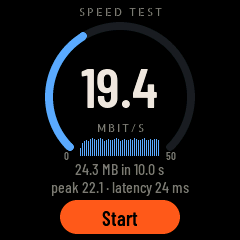
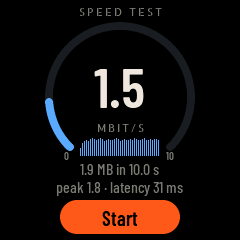
Toolbox: Wi-Fi power save off while a tool runs; speed dial to 10 Mbit/s
Measured on the watch: modem sleep pushed the average ping from ~10 to ~50 ms and held
the speed test at 0.5 Mbit/s. With power save off during a tool, ping reads true and the
download reaches 1.2–2 Mbit/s — the ceiling of Arduino-ESP32's fixed 5.7 KB lwIP TCP
window. The dial now reads up to 10 Mbit/s and the simulator's demo data matches what the
watch measures. DECISIONS D52 / D56 record the on-watch checks (ping, ARP sweep, BLE
scan, speed test, 32 % internal RAM free).

Claude-Session: https://claude.ai/code/session_01BHBYox5ENEx9Hdd9LiBx8a

diff --git a/src/hal/sim/hal_sim_net.c b/src/hal/sim/hal_sim_net.c
@@ -198,15 +198,16 @@ static void demo(kg_tool_t tool, const char *target)
         static const float S[] = {9.1f, 15.2f, 17.8f, 19.4f, 18.2f, 20.6f, 21.9f, 19.7f, 18.9f, 20.3f, 22.1f, 19.8f, 17.4f,
                                   18.8f, 20.1f, 19.2f, 18.6f, 19.9f, 21.2f, 20.4f, 18.3f, 19.5f, 20.8f, 19.1f, 18.7f, 20.2f,
                                   19.6f, 21.4f, 20.0f, 19.3f, 18.5f, 19.7f, 20.9f, 19.4f, 18.8f, 20.5f, 19.0f, 19.8f, 20.3f, 19.6f};
-        for (int i = 0; i < KG_SPEED_HIST; i++) {
-            s_st.speed_hist[s_st.speed_n++] = S[i];
-            if (S[i] > s_st.peak_mbps) s_st.peak_mbps = S[i];
+        for (int i = 0; i < KG_SPEED_HIST; i++) { /* scaled to what the watch measures (D52) */
+            float v = S[i] * 0.08f;
+            s_st.speed_hist[s_st.speed_n++] = v;
+            if (v > s_st.peak_mbps) s_st.peak_mbps = v;
         }
-        s_st.mbps = 19.4f;
-        s_st.bytes = 24250000;
+        s_st.mbps = 1.55f;
+        s_st.bytes = 1940000;
         s_st.elapsed_ms = 10000;
-        s_st.ttfb_ms = 24;
-        snprintf(s_st.status, sizeof s_st.status, "24.3 MB in 10.0 s");
+        s_st.ttfb_ms = 31;
+        snprintf(s_st.status, sizeof s_st.status, "1.9 MB in 10.0 s");
         break;
     }
     case KG_TOOL_PUBLIC:

diff --git a/src/ui/net_screens.c b/src/ui/net_screens.c
@@ -398,7 +398,7 @@ const net_tool_t NET_PING = {"Ping", "Latency and packet loss", ping_create, pin
 
 /* ============================================================ speed test */
 
-#define SPEED_FULL 50.0f /* Mbit/s at the end of the dial */
+#define SPEED_FULL 10.0f /* Mbit/s at the end of the dial: the watch tops out around 2 (D52) */
 
 static lv_obj_t *s_arc, *s_big, *s_info, *s_graph, *s_run2;
 
@@ -474,7 +474,7 @@ static lv_obj_t *speed_create(void)
     lv_obj_align(unit, LV_ALIGN_TOP_MID, 0, 122);
     lv_obj_t *z = kit_label(scr, &kg_font_digits_11, KG_C_TEXT_DIM, "0");
     lv_obj_set_pos(z, 64, 152);
-    lv_obj_t *f = kit_label(scr, &kg_font_digits_11, KG_C_TEXT_DIM, "50");
+    lv_obj_t *f = kit_label(scr, &kg_font_digits_11, KG_C_TEXT_DIM, "10");
     lv_obj_set_pos(f, 166, 152);
     s_graph = lv_obj_create(scr);
     lv_obj_remove_style_all(s_graph);

diff --git a/src/hal/device/nettools.cpp b/src/hal/device/nettools.cpp
@@ -156,6 +156,10 @@ static void tool_task(void *)
         char target[48];
         memcpy(target, s_req_target, sizeof target);
         unlock();
+        /* Wi-Fi power save off while a tool runs: modem sleep adds tens of ms to every round
+         * trip, which skews ping and, with lwIP's fixed 5.7 KB TCP window, caps the speed test
+         * below 1 Mbit/s. Back on as soon as the tool returns. */
+        WiFi.setSleep(false);
         if (tool == KG_TOOL_LAN) lan_scan();
         else if (tool == KG_TOOL_BLE) {
             lock();
@@ -164,6 +168,7 @@ static void tool_task(void *)
             ble_tool_scan(s_st, &ENV);
         } else kg_tool_run(tool, target, s_st, &ENV);
         kg_tool_end(s_st, &ENV);
+        WiFi.setSleep(true);
     }
     vTaskDelete(nullptr);
 }

diff --git a/DECISIONS.md b/DECISIONS.md
@@ -125,7 +125,7 @@ Each entry: decision — rationale. Most recent at the bottom.
 
 **D51. Toolbox techniques.** Ping and traceroute send ICMP echo requests with a chosen TTL on a raw lwIP socket (raw sockets also receive the routers' "time exceeded"); on macOS and Linux an unprivileged ICMP datagram socket does the same without root. The LAN scan is an ARP sweep of the /24 around the watch, in batches of 8 (lwIP keeps about ten ARP entries), run inside the lwIP thread through `tcpip_api_call()` since lwIP is not thread-safe here; locally administered MACs (phones' private addresses) are dimmed. The Bluetooth scan is a 5 s active NimBLE scan next to the iPhone link, only while Bluetooth is on (starting the stack for a scan would tie the light-sleep rules of D41 to the toolbox); the observer role is compiled back in for it. Tool state (2.6 KB, three copies) lives in PSRAM.
 
-**D52. Speed test and public IP over plain HTTP.** The speed test downloads up to 50 MB from `speed.cloudflare.com` for at most 10 s; the public IP, provider and network come from `ip-api.com`. Neither involves credentials, and TLS would cost RAM and cap the ESP32's throughput. ip-api.com only sees the address it reports, and only when the Link screen is opened.
+**D52. Speed test and public IP over plain HTTP.** The speed test downloads up to 50 MB from `speed.cloudflare.com` for at most 10 s; the public IP, provider and network come from `ip-api.com`. Neither involves credentials, and TLS would cost RAM and cap the ESP32's throughput. ip-api.com only sees the address it reports, and only when the Link screen is opened. **Measured on the watch:** about 1.2–2 Mbit/s. The ceiling is Arduino-ESP32's fixed lwIP TCP window (5.7 KB, compiled into the framework): throughput ≈ window ÷ round trip. Wi-Fi power save is turned off while a tool runs — modem sleep had pushed the average ping from ~10 to ~50 ms and the speed test down to 0.5 Mbit/s — and back on as soon as it returns. The dial reads up to 10 Mbit/s.
 
 **D53. LVGL pool: 64 → 384 KB, still in PSRAM** (D40). Apps stay created once opened, and thirteen apps with the toolbox's screens exhausted 64 KB (seen in the simulator as a failed object allocation). Internal RAM is unaffected.
 
@@ -133,4 +133,4 @@ Each entry: decision — rationale. Most recent at the bottom.
 
 **D55. Offline astronomy and time zones.** The world clock evaluates POSIX TZ rules itself (`kg_tz.c`) instead of switching libc's TZ, which would disturb the watch's own local time; it matches the C library on twelve zones every 37 minutes over two years. Sunrise, sunset and civil twilight use NOAA's sunrise equation (±1–2 min); the Moon's phase uses the elongation with Meeus' main periodic terms, within 20 minutes of the 2024 and 2025 eclipses. All at the home location of `kg_weather.h`.
 
-**D56. Not yet verified on the watch** (built and checked in the simulator only, the watch being away): IR emission (the LED can be seen through a phone camera), accelerometer axes and signs in the Level app (`accel` console command), the ARP sweep, the BLE scan next to ANCS, the speed test's throughput, AXP202 temperature, and the 30 % internal-RAM floor with the toolbox open.
+**D56. Not yet verified on the watch** (built and checked in the simulator only, the watch being away): IR emission (the LED can be seen through a phone camera), accelerometer axes and signs in the Level app (`accel` console command), and the AXP202 charge-current reading (1 A shown while charging looks too high). **Verified on 2026-10-14** by OTA: boot of 0.6.0, ping (0 % loss), ARP sweep (23 devices), BLE scan (22 devices), speed test (D52), internal RAM 32 % free with Wi-Fi and BLE on.
